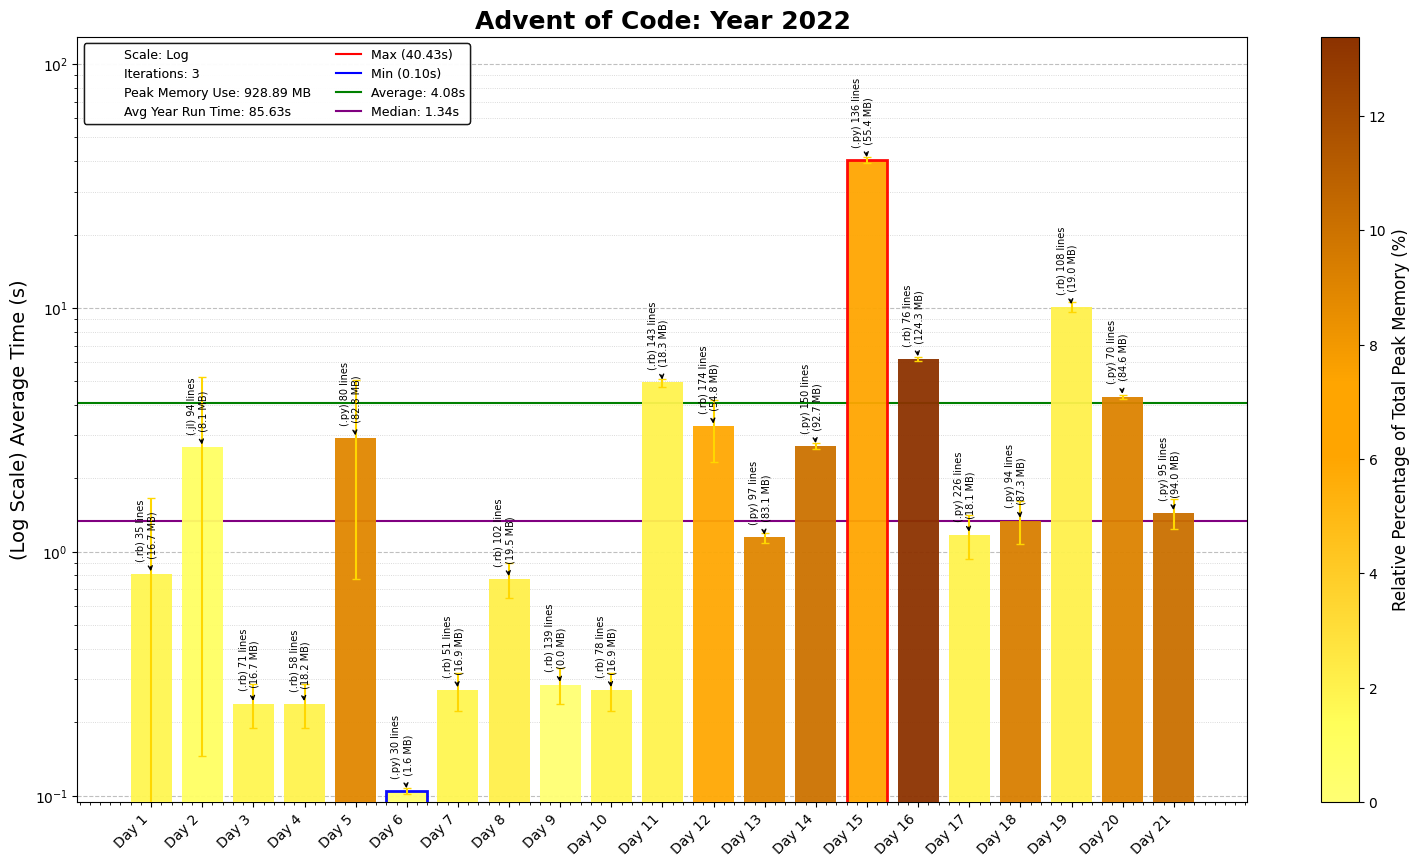
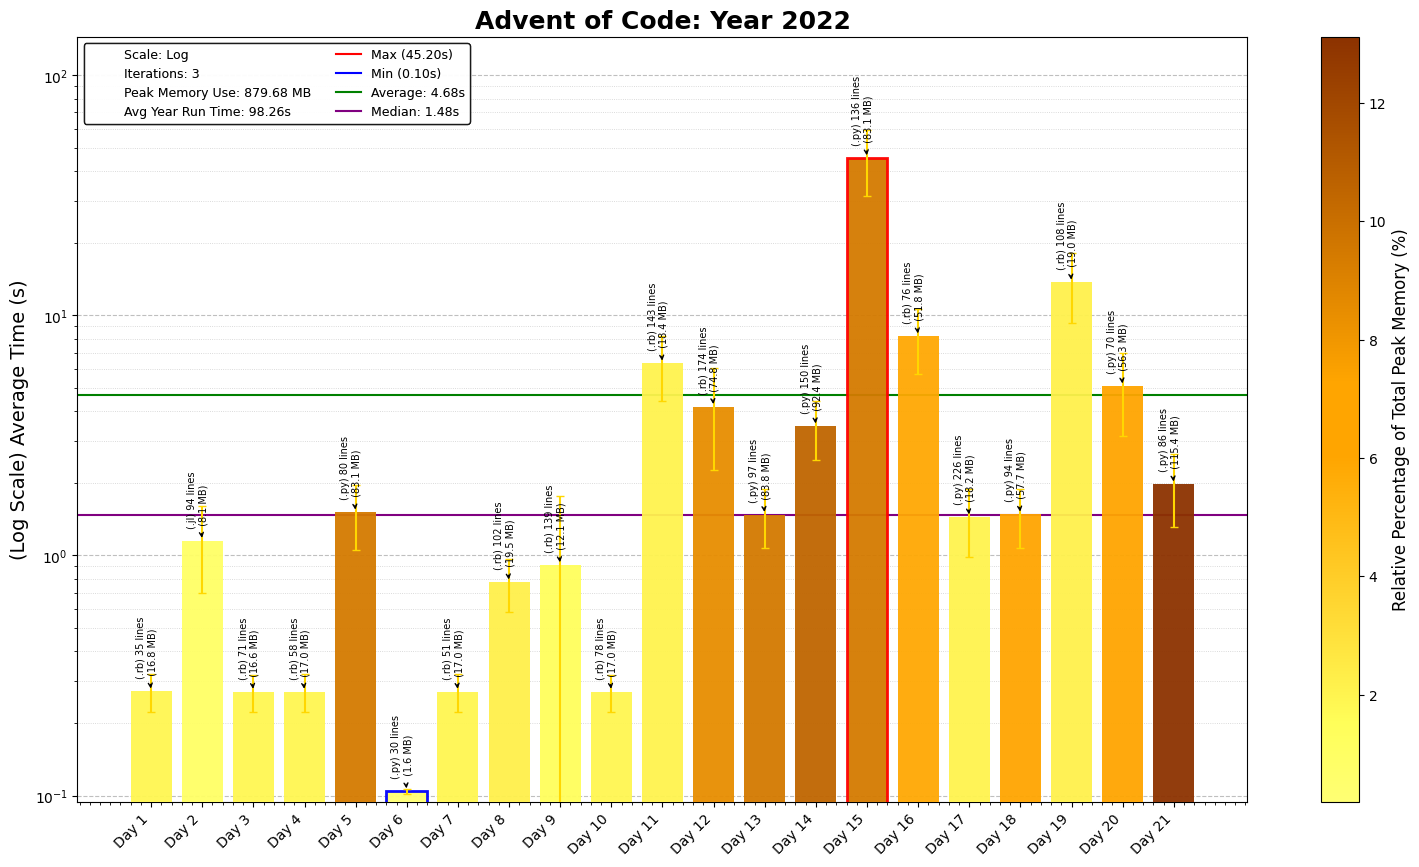
2022 Day 21 P2

diff --git a/2022/21/2022Day21.py b/2022/21/2022Day21.py
@@ -11,8 +11,7 @@ import os, re, copy, time, ast
 import numpy as np
 import pandas as pd
 import matplotlib.pyplot as plt
-import networkx as nx
-start_time = time.time()
+from sympy import symbols, Eq, solve
 
 # Load the input data from the specified file path
 D21_file = "Day21_input.txt"
@@ -23,21 +22,19 @@ with open(D21_file_path) as file:
     input_data = file.read().strip().split('\n')
     instruction_dict = {line.split(': ')[0]: line.split(': ')[1] for line in input_data}
 
-def evaluate_expression(expr):
-    # Base case: if the expression is a single number (string), return it as a number
+def parse_expression(expr):
+    """Recursively parse a nested list into a sympy expression."""
     if isinstance(expr, str):
-        return int(expr)
-    if isinstance(expr, int):
-        return expr
-
-    # Recursive case: if the expression is a list
+        if expr == "your_input":
+            return symbols("your_input")  # Treat 'your_input' as a variable
+        return int(expr)  # Convert numeric strings to integers
+    
     if isinstance(expr, list):
-        # The structure of the list is [left_operand, operator, right_operand]
-        left = evaluate_expression(expr[0])  # Evaluate the left operand
-        operator = expr[1]  # The operator as a string
-        right = evaluate_expression(expr[2])  # Evaluate the right operand
-
-        # Perform the operation based on the operator
+        left = parse_expression(expr[0])
+        operator = expr[1]
+        right = parse_expression(expr[2])
+        
+        # Build the sympy expression based on the operator
         if operator == '+':
             return left + right
         elif operator == '-':
@@ -45,10 +42,9 @@ def evaluate_expression(expr):
         elif operator == '*':
             return left * right
         elif operator == '/':
-            return left // right  # Integer division for simplicity
+            return left / right
         elif operator == '=':
-            if left == right:
-                return True
+            return Eq(left, right)
         else:
             raise ValueError(f"Unsupported operator: {operator}")
 
@@ -67,29 +63,24 @@ def find_monkey_call(instructions, start = 'root'):
                 new_equation.append(variable)
         return new_equation
 
-eq_p1 = find_monkey_call(instruction_dict)
-ans_p1 = evaluate_expression(eq_p1)
-print("Part 1:", (ans_p1))
+def match_monkey_call(instructions: dict):
+    root_instruction = re.sub(r'[+\-*/^]', '=', instructions['root'])
+    instructions['root'] = root_instruction
+    instructions['humn'] = 'your_input'
+    equation = find_monkey_call(instructions)
+    # Parse the equation into a sympy Eq object
+    lhs = parse_expression(equation[0])  # Left-hand side of the equation
+    rhs = parse_expression(equation[2])  # Right-hand side of the equation
+    eq = Eq(lhs, rhs)  # Create the equation
+    
+    # Solve for 'your_input'
+    your_input = symbols("your_input")
+    solution = solve(eq, your_input)
+    return round(solution[0])
 
-human_val = 301
-test_input = ['root: pppw = sjmn',
-    'dbpl: 5',
-    'cczh: sllz + lgvd',
-    'zczc: 2',
-    'ptdq: humn - dvpt',
-    'dvpt: 3',
-    'lfqf: 4',
-    f'humn: {human_val}',
-    'ljgn: 2',
-    'sjmn: drzm * dbpl',
-    'sllz: 4',
-    'pppw: cczh / lfqf',
-    'lgvd: ljgn * ptdq',
-    'drzm: hmdt - zczc',
-    'hmdt: 32'
-]
-instruction_dict1 = {line.split(': ')[0]: line.split(': ')[1] for line in test_input}
-eq_p2 = find_monkey_call(instruction_dict1)
-ans_p2= evaluate_expression(eq_p2)
-print("Part 2:", (ans_p2))
-print("Total Time", time.time()-start_time)
+eq_p1 = find_monkey_call(instruction_dict)
+ans_p1 = parse_expression(eq_p1)
+print("Part 1:", round(ans_p1))
+
+ans_p2 = match_monkey_call(instruction_dict)
+print("Part 2:", ans_p2)
